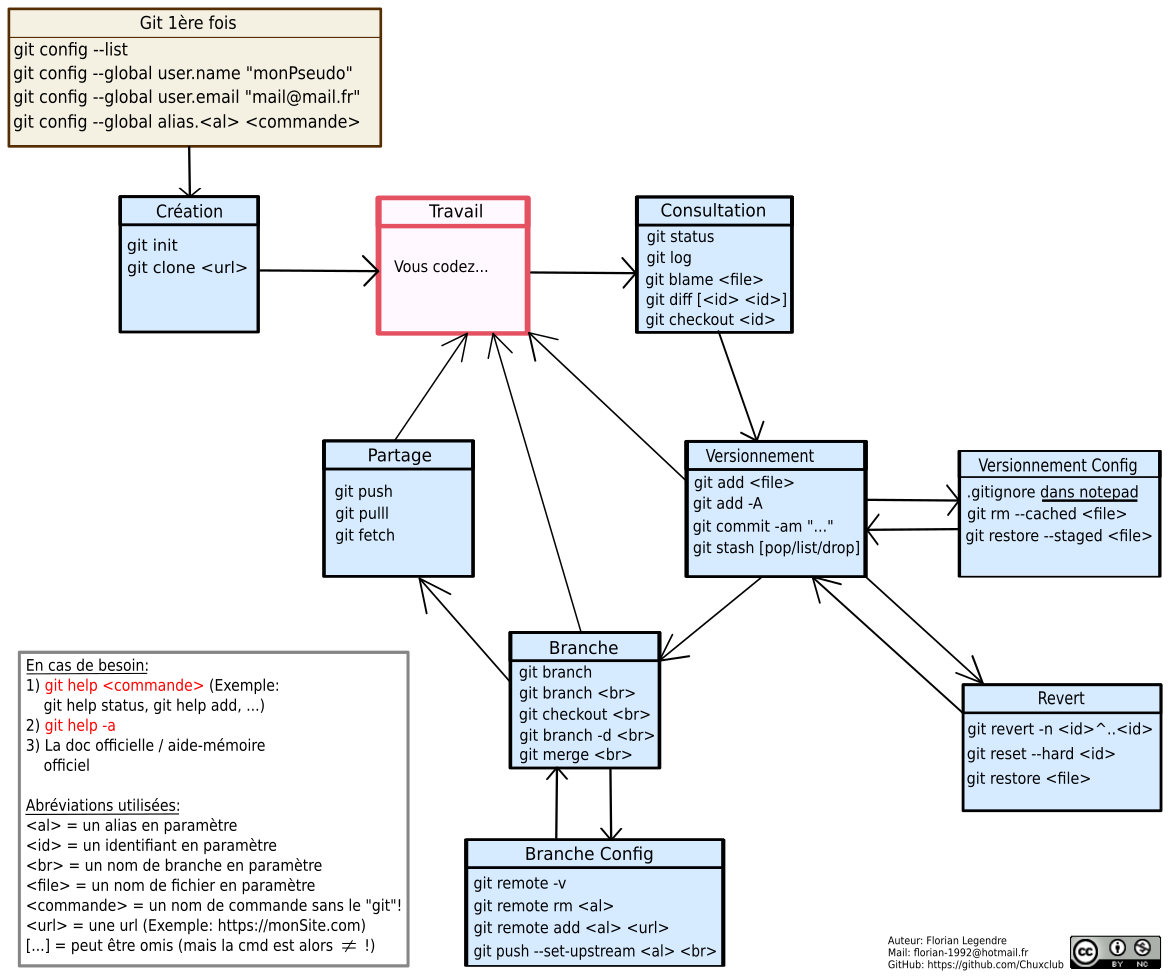
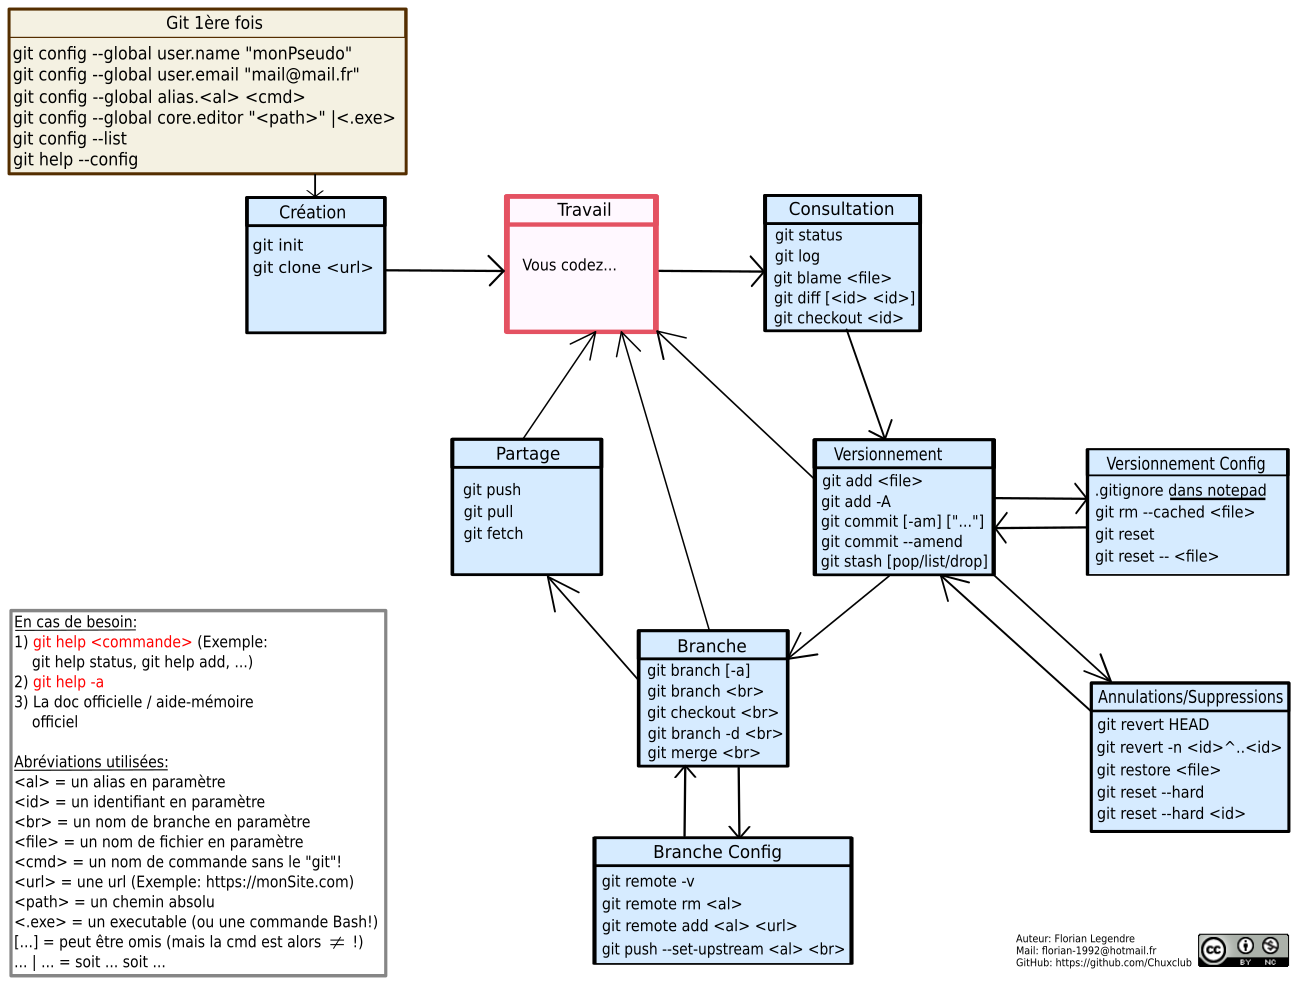
Ajout des exercices sur les revert + màj des diagrammes du flot de commandes git + structure de la page avec sommaire terminée

diff --git a/index.md b/index.md
@@ -17,9 +17,16 @@ Une fois que ce module 0 aura été bien compris, téléchargez et installez Git
     + [Consulter des versions](#log)
     + [Supprimer des versions](#revert)
   * [Git : mode d'emploi pour un usage seul, sans dépôt distant, avec une ou plusieurs branches](#git2)
+    + [Gérer les branches locales](#gestion_branches)
+    + [Utiliser la remise](#remise)
+    + [Boucle multi-branches locale de travail](#boucle_multiBranches)
   * [Git : mode d'emploi pour un usage seul, avec dépôt distant](#git3)
+    + [Démarrer son travail sur un clone](#clone)
+    + [Créer une branche distante](#creation_brancheDist)
+    + [Configurer un suivi de branche distante](#config_brancheDist)
   * [Git : mode d'emploi pour un usage collaboratif](#git4)
-
+    + [Gestion des interdictions de push](#interdiction_push)
+    + [Gestion des conflits](#conflits)
 <br>
 <br>
 <hr>
@@ -111,7 +118,7 @@ Vous pouvez sauter cet exercice pour l'instant. Revenez-y quand vous vous serez 
 #### La boucle locale de travail <a id="boucle_locale"></a>
 
 On rappelle la boucle de travail locale:
-![boucleLocale](./images/gitCommandFlow1.png)
+![boucleLocale](./images/gitCommandFlow_localLoop.png)
 
 Nous allons travailler cette boucle sur un projet test.
 
@@ -137,9 +144,9 @@ Comme vous pouvez déjà le constater la commande `git status` est une commande 
 - Retirez test2.txt du suivi des modifications avec la commande `git rm --cached test2.txt`
 - Faites un commit puis un `git status`. Que constatez-vous?
 
-La commande `git rm --cached <nomFichier>` n'est pas la commande que vous utiliserez le plus mais elle est très utile dès lors qu'on veut retirer un fichier du suivi comme un fichier binaire inutile, une fichier trop lourd (500Mo) pour être partagé, etc.
+La commande `git rm --cached <nomFichier>` n'est pas la commande que vous utiliserez le plus mais elle est très utile dès lors qu'on veut retirer un fichier du suivi comme un fichier binaire inutile, un fichier trop lourd (500Mo) pour être partagé, etc.
 
-Vous remarquerez également une problème: tant qu'on n'a pas dit à Git d'ignorer le fichier test2.txt on ne pourra pas utiliser la commande `git add -A` qui est pourtant bien pratique.
+Vous remarquerez également un problème: tant qu'on n'a pas dit à Git d'ignorer le fichier test2.txt on ne pourra pas utiliser la commande `git add -A` qui est pourtant bien pratique.
 
 Pour dire à git d'ignorer ce fichier on va créer un fichier .gitignore.
 
@@ -181,18 +188,20 @@ Il se peut que vous ayiez envie de "visiter" votre projet dans une version anté
 
 <br>
 
-#### Supprimer des versions <a id="revert"></a>
+#### Annuler des versions <a id="revert"></a>
 
-Il arrive parfois qu'on veuille annuler un changement. Pour ce faire il y a plusieurs méthodes. L'une de ces méthodes est la méthode "sûre" car elle ne fait qu'enrichir l'historique des versions en ajoutant des versions enregistrant vos annulations. Cette méthode est celle de la commande `git revert <id>`
+Il arrive parfois qu'on veuille annuler une série de changements pour "revenir en arrière". Pour ce faire il y a plusieurs méthodes. L'une de ces méthodes est la méthode "sure" car elle ne fait qu'enrichir l'historique des versions en ajoutant des versions enregistrant vos annulations. Cette méthode est celle de la commande `git revert -n <old_id>^..HEAD`
 
 ###### Exercice
 - Créez un fichier testRevert.txt
-- Écrivez dedans 'toto' puis commitez. Écrivez ensuite 'titi' et commitez. Écrivez 'tata' et commitez. Enfin écrivez 'tutu' et commitez
+- Écrivez dedans 'un' puis commitez. Écrivez ensuite 'deux' et commitez. Écrivez 'trois' et commitez. Enfin écrivez 'quatre' et commitez
 - Entrez `git log` pour que vous constatiez l'état courant de votre historique
-- Choisissez le tout dernier commit parmi ceux que vous venez d'ajouter et faites un `git revert` avec l'identifiant de ce commit
+- Choisissez le tout dernier commit parmi ceux que vous venez d'ajouter et faites un `git revert -n <old_id>^..HEAD` avec l'identifiant de ce commit
+- Faites un `git status` et consultez votre testRevert.txt. Que constatez-vous?
+- Commitez votre annulation
 - Refaites un `git log`
-- Annulez le tout dernier commit en utilisant un chemin relatif vers le commit cette fois-ci
-- Refaites un `git log`
+- Entrez `git revert HEAD` puis faites un `git log`. Que constatez-vous?
+- Essayez maintenant de "revert" le projet jusqu'à son premier commit. Si vous avez une erreur quelle est elle? (Indice: À quoi sert le "^" ?)
 
 
 <br>
@@ -206,7 +215,18 @@ Il arrive parfois qu'on veuille annuler un changement. Pour ce faire il y a plus
 [Retour à la table des matières](#bienvenue)
 
 
+#### Gérer les branches locales <a id="gestion_branches"></a>
 
+
+
+#### Utiliser la remise <a id="remise"></a>
+
+
+
+#### La boucle locale de travail multi-branches <a id="boucle_multiBranches"></a>
+
+On rappelle la boucle de travail locale multi-branches:
+![boucleLocale](./images/gitCommandFlow_multilocalLoop.png)
 
 
 <br>
@@ -220,8 +240,11 @@ Il arrive parfois qu'on veuille annuler un changement. Pour ce faire il y a plus
 [Retour à la table des matières](#bienvenue)
 
 
+#### Démarrer sur un clone <a id="clone"></a>
 
+#### Créer une branche distante <a id="creation_brancheDist"></a>
 
+#### Configurer un suivi de branche distante <a id="config_brancheDist"></a>
 
 <br>
 <br>
@@ -232,6 +255,10 @@ Il arrive parfois qu'on veuille annuler un changement. Pour ce faire il y a plus
 <!-- ======================================================================= -->
 ### Git : mode d'emploi pour un usage collaboratif<a id="git4"></a>
 [Retour à la table des matières](#bienvenue)
+
+#### Les interdictions de Push <a id="interdiction_push"></a>
+
+#### Gestion des conflits d'édition <a id="conflits"></a>
 
 
 <br>
